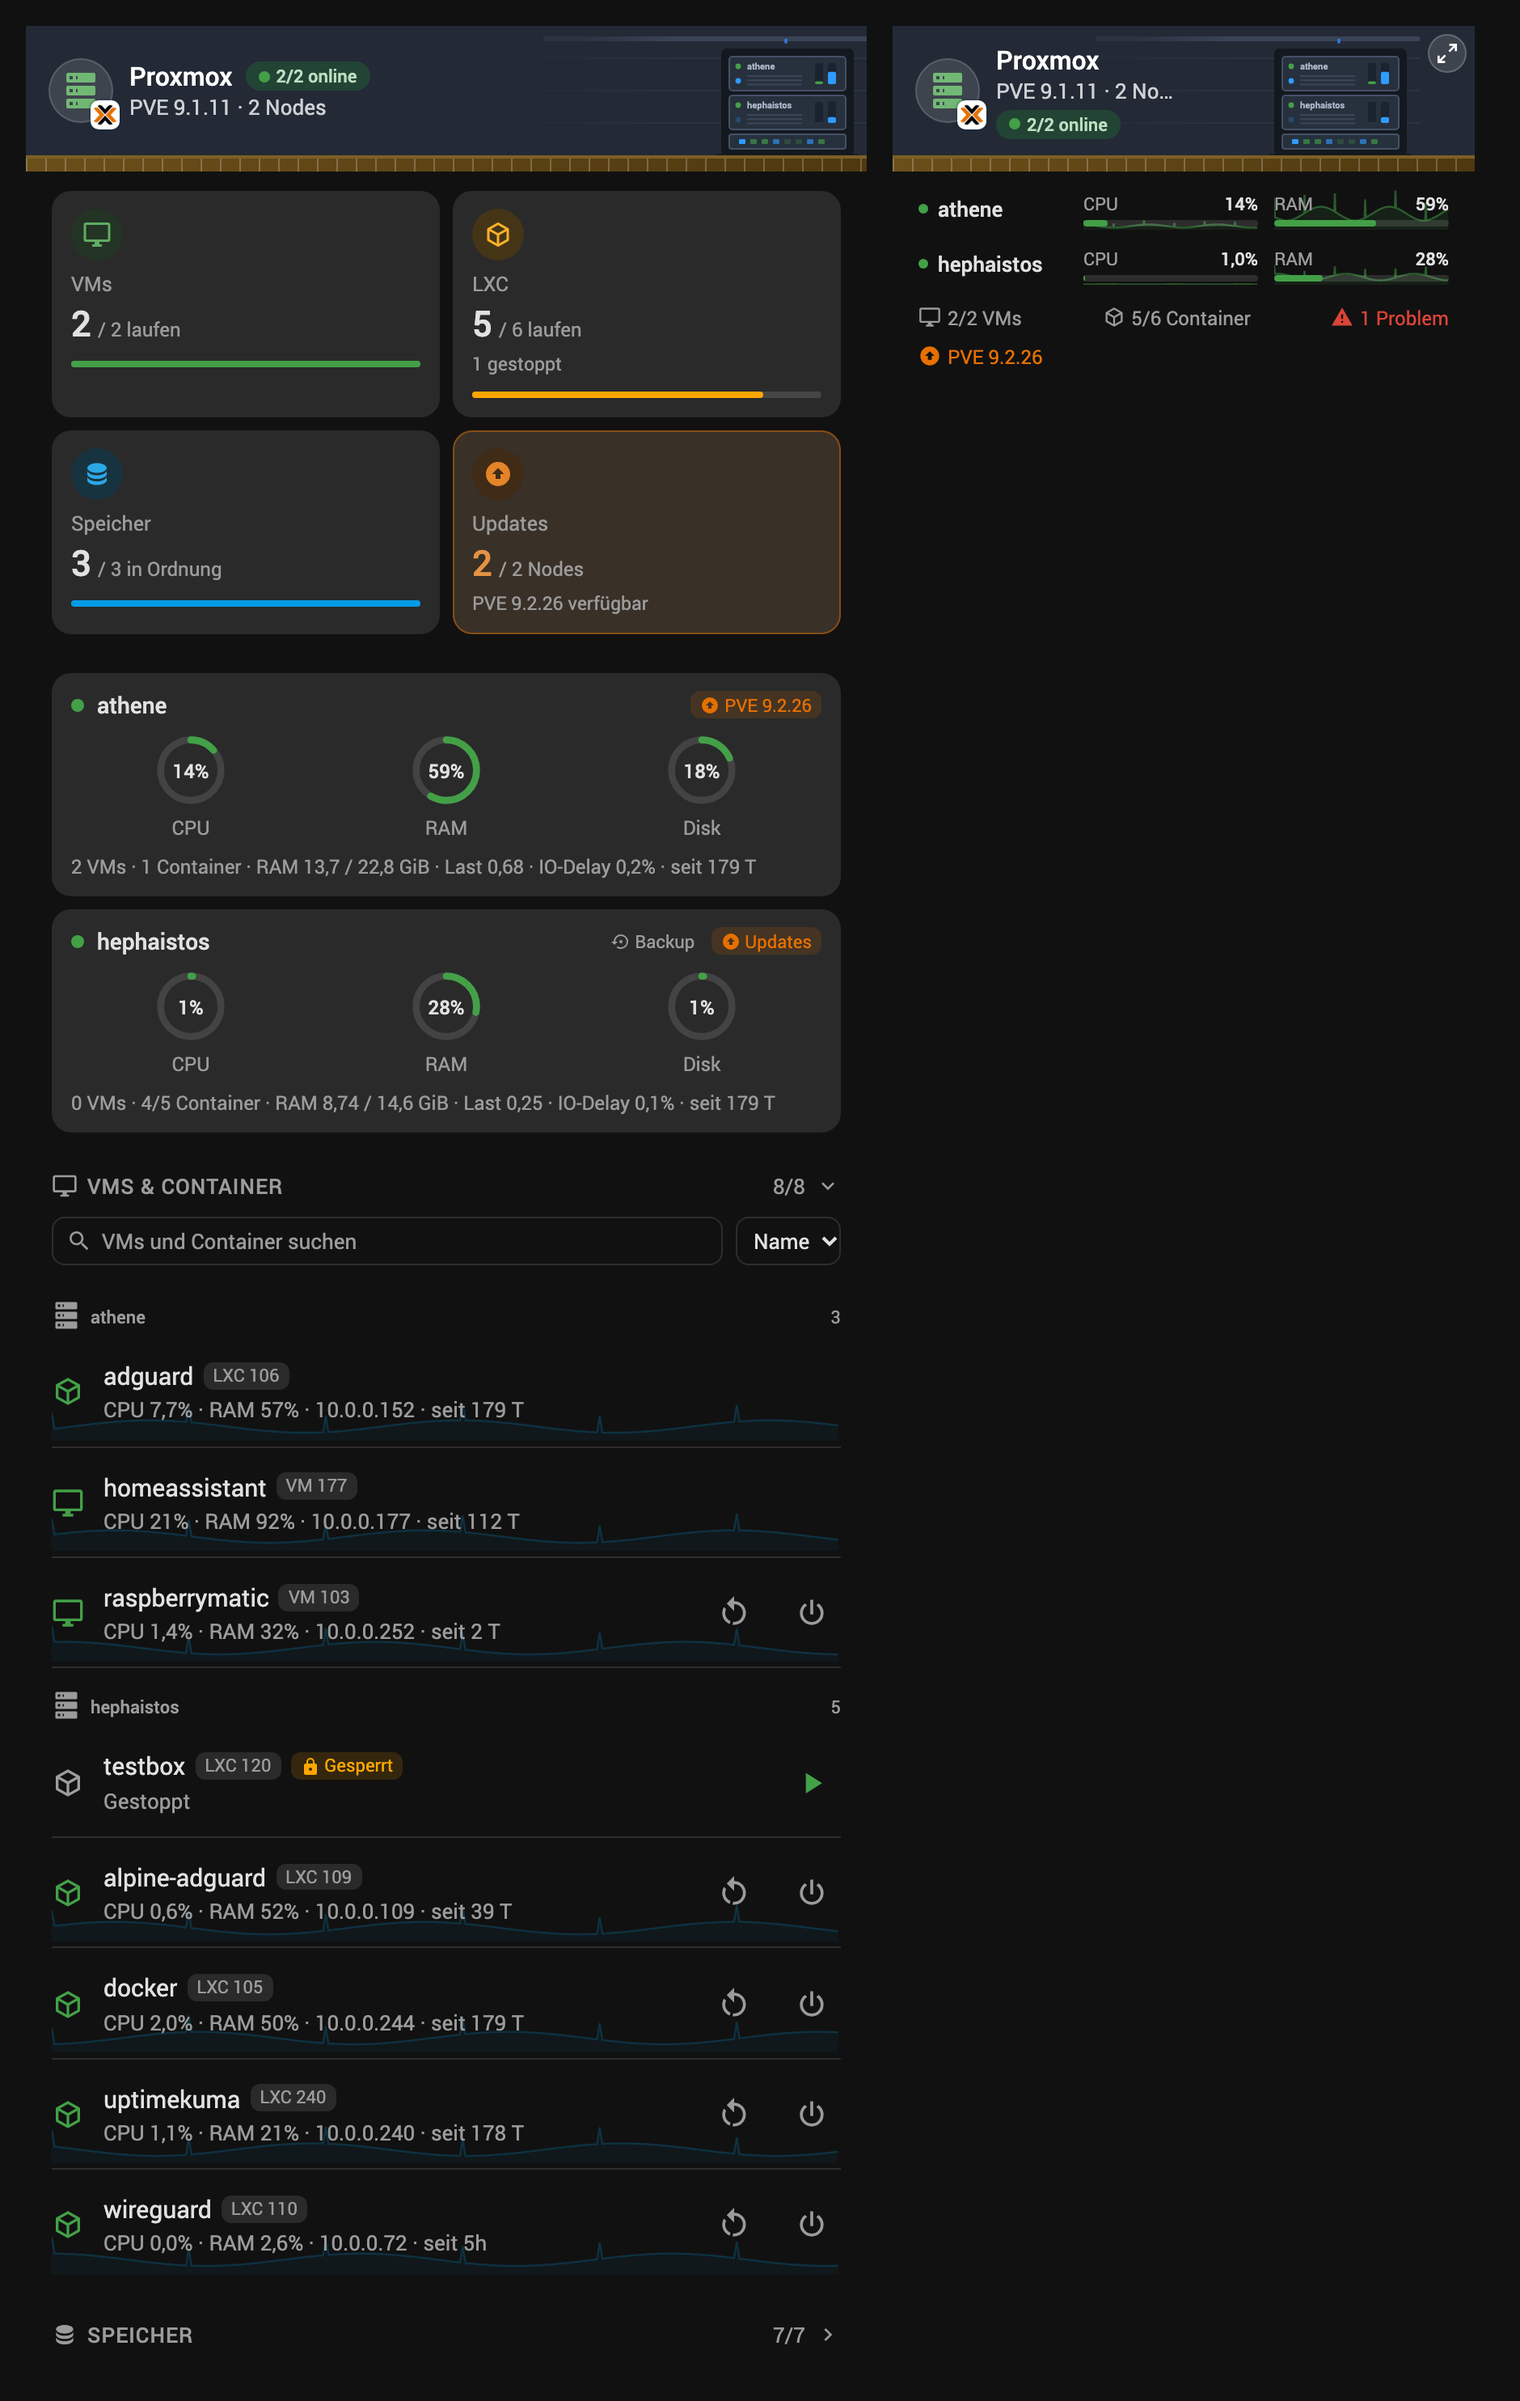
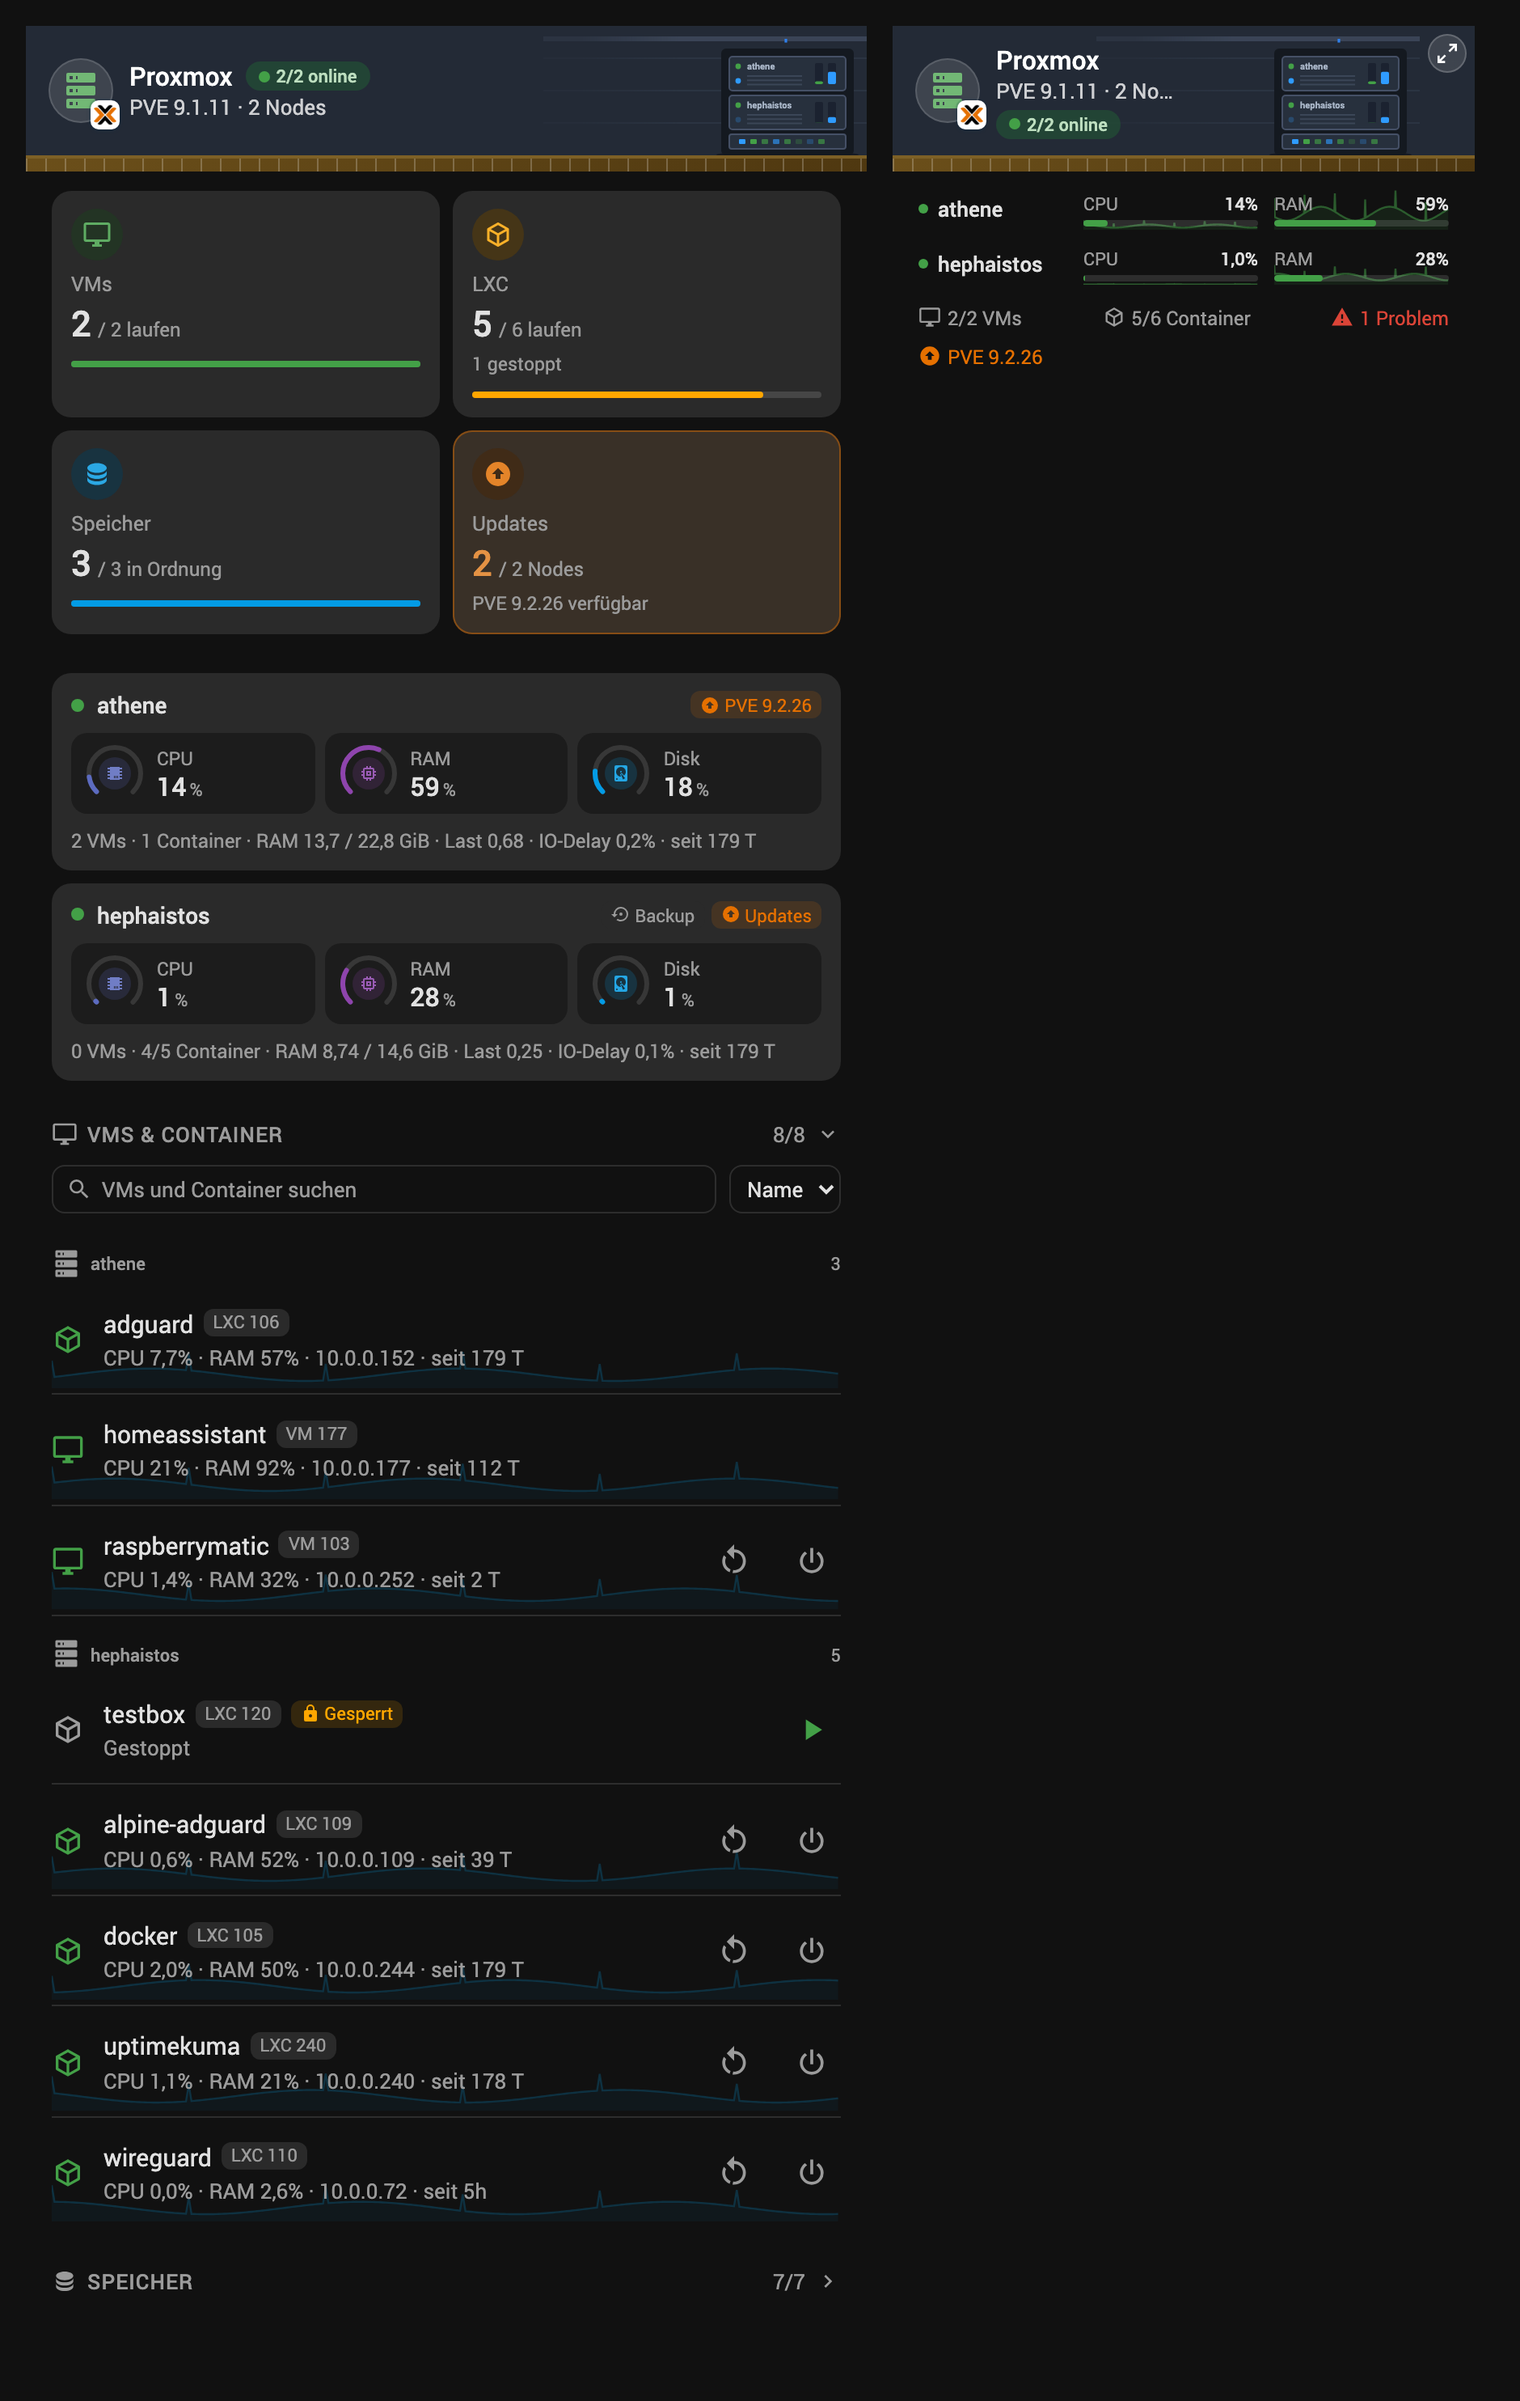
0.4.0: arc tiles instead of rings in the node panels
CPU, RAM and disk of each node are compact arc tiles as in the gauge tile of ha-cards-kit: a small open arc with
the icon in a tinted circle, the name and the value beside it. Colour per metric, orange/red from the thresholds;
stacked on cards under 340 px. Screenshots regenerated.

diff --git a/src/proxmox-card.js b/src/proxmox-card.js
@@ -784,14 +784,23 @@ function spark(points, end, max) {
   return `<svg class="spark" viewBox="0 0 100 30" preserveAspectRatio="none" aria-hidden="true"><path class="spark-a" d="${area}"/><path class="spark-l" d="${line}"/></svg>`;
 }
 
-const ring = (pct) => {
-  const r = 26;
-  const c = 2 * Math.PI * r;
+/**
+ * Open arc gauge (270°, gap at the bottom) as in the gauge tile of ha-cards-kit: grey track, the share in the tile
+ * colour. Drawn as stroke dashes on a circle turned so the arc starts bottom left.
+ */
+const arc = (pct, size = 36, width = 3) => {
+  const c = size / 2;
+  const r = (size - width) / 2 - 0.5;
+  const C = 2 * Math.PI * r;
+  const L = 0.75 * C;
   const p = pct === null ? 0 : Math.max(0, Math.min(100, pct));
-  return `<svg class="ring" viewBox="0 0 64 64">
-    <circle cx="32" cy="32" r="${r}" class="track"/>
-    <circle cx="32" cy="32" r="${r}" class="value" stroke-dasharray="${((p / 100) * c).toFixed(1)} ${c.toFixed(1)}"/>
-  </svg>`;
+  const rot = `rotate(135 ${c} ${c})`;
+  return `<svg class="arcsvg" width="${size}" height="${size}" viewBox="0 0 ${size} ${size}" aria-hidden="true">
+    <circle class="track" cx="${c}" cy="${c}" r="${r}" stroke-width="${width}" stroke-dasharray="${L.toFixed(2)} ${C.toFixed(2)}" transform="${rot}"/>${
+      p > 0
+        ? `<circle class="value" cx="${c}" cy="${c}" r="${r}" stroke-width="${width}" stroke-dasharray="${((L * p) / 100).toFixed(2)} ${C.toFixed(2)}" transform="${rot}"/>`
+        : ""
+    }</svg>`;
 };
 
 // ---------------------------------------------------------------------------
@@ -1386,7 +1395,8 @@ const FULL_STYLE = `
   .section-title .chevron { transition: transform .2s ease; }
   .section-title.closed { margin-bottom: 0; }
   .section-title.closed .chevron { transform: rotate(-90deg); }
-  /* A node: its name line, then its CPU, RAM and disk rings. */
+  /* A node: its name line, then CPU, RAM and disk as compact arc tiles (small arc with the icon left, name and value
+     beside it), as the compact gauge tile of ha-cards-kit. Colour per metric, orange/red from the thresholds. */
   .nodes { display: flex; flex-direction: column; gap: 8px; }
   .node { border-radius: 12px; padding: 10px 12px; background: var(--secondary-background-color, rgba(127,127,127,.06)); min-width: 0;
           display: flex; flex-direction: column; gap: 8px; }
@@ -1395,25 +1405,30 @@ const FULL_STYLE = `
   .node-head .nname { flex: 1 1 auto; font-size: 14px; font-weight: 500; white-space: nowrap; overflow: hidden; text-overflow: ellipsis; }
   .node-head .tags { display: flex; gap: 4px; margin-left: auto; min-width: 0; flex-wrap: nowrap; overflow: hidden; }
   .node .detail { font-size: 12px; color: var(--secondary-text-color); line-height: 1.4; }
-  .gauges { display: grid; grid-template-columns: repeat(3, minmax(0, 1fr)); gap: 10px; }
-  .gauge { display: flex; flex-direction: column; align-items: center; min-width: 0; position: relative; border-radius: 10px; overflow: hidden; }
-  .gauge > :not(.spark) { position: relative; }
-  .gauge .spark { position: absolute; inset: 0; width: 100%; height: 100%; pointer-events: none; }
-  .gauge .gw { position: relative; width: min(46px, 100%); aspect-ratio: 1; }
-  .node .gauge { gap: 4px; }
-  .node .gauge .lbl { font-size: 12px; }
-  .ring { display: block; width: 100%; height: 100%; transform: rotate(-90deg); }
-  .ring circle { fill: none; stroke-width: 6; }
-  .ring .track { stroke: var(--divider-color, rgba(127,127,127,.25)); }
-  .ring .value { stroke: var(--c, var(--px-accent)); stroke-linecap: round; transition: stroke-dasharray .6s ease; }
-  .gauge .val { position: absolute; inset: 0; display: flex; flex-direction: column; align-items: center; justify-content: center; }
-  .gauge .val b { font-size: 12px; font-weight: 500; }
-  .gauge .val .icon { display: none; }
-  .gauge .lbl { font-size: 12px; color: var(--secondary-text-color); text-align: center; line-height: 1.35; max-width: 100%; overflow-wrap: break-word; }
-  .gauge .lbl small { display: block; font-size: 11px; opacity: .85; white-space: nowrap; overflow: hidden; text-overflow: ellipsis; }
-  @container (max-width: 299px) {
-    .gauge .val .icon { display: none; }
-    .gauge .val b { font-size: 11px; }
+  .arcs { display: grid; grid-template-columns: repeat(3, minmax(0, 1fr)); gap: 6px; }
+  .arct { --mc: var(--px-accent); --c: var(--mc); display: flex; align-items: center; gap: 8px; min-width: 0; padding: 7px 9px; border-radius: 10px;
+          background: var(--ha-card-background, var(--card-background-color, #fff)); }
+  .arct.cpu { --mc: var(--indigo-color, #5c6bc0); } .arct.ram { --mc: var(--purple-color, #8e44ad); } .arct.disk { --mc: var(--blue-color, #039be5); }
+  .arct.ok, .arct.idle { --c: var(--mc); } .arct.warn { --c: var(--px-warn); } .arct.crit { --c: var(--px-crit); }
+  .arct.warn, .arct.crit { box-shadow: inset 0 0 0 1px color-mix(in srgb, var(--c) 45%, transparent);
+                           background: color-mix(in srgb, var(--c) 8%, var(--ha-card-background, var(--card-background-color, #fff))); }
+  .arct.clickable:hover { filter: brightness(1.04); }
+  .arct .arc { position: relative; flex: none; width: 36px; height: 36px; display: grid; place-items: center; }
+  .arct .arcsvg { position: absolute; inset: 0; }
+  .arcsvg circle { fill: none; stroke-linecap: round; }
+  .arcsvg .track { stroke: color-mix(in srgb, var(--secondary-text-color) 22%, transparent); }
+  .arcsvg .value { stroke: var(--c); transition: stroke-dasharray .6s ease; }
+  .arct .gi { width: 20px; height: 20px; border-radius: 50%; display: grid; place-items: center;
+              color: color-mix(in srgb, var(--c) 85%, var(--primary-text-color)); background: color-mix(in srgb, var(--c) 18%, var(--ha-card-background, var(--card-background-color, #fff))); }
+  .arct .gi .icon { width: 12px; height: 12px; }
+  .arct .t { display: flex; flex-direction: column; min-width: 0; }
+  .arct .gk { font-size: 11.5px; color: var(--secondary-text-color); white-space: nowrap; overflow: hidden; text-overflow: ellipsis; }
+  .arct .gv { font-size: 16px; font-weight: 500; line-height: 1.2; white-space: nowrap; font-variant-numeric: tabular-nums; }
+  .arct .gv small { font-size: 11px; font-weight: 400; color: var(--secondary-text-color); margin-left: 2px; }
+  .arct.warn .gv, .arct.crit .gv { color: color-mix(in srgb, var(--c) 70%, var(--primary-text-color)); }
+  .arct.idle .arc, .arct.idle .gv { opacity: .6; }
+  @container (max-width: 339px) {
+    .arcs { grid-template-columns: minmax(0, 1fr); }
   }
   .counts { display: grid; grid-template-columns: repeat(auto-fit, minmax(68px, 1fr)); gap: 10px; }
   .count-tile { display: flex; flex-direction: column; align-items: center; padding: 10px 6px; border-radius: 10px;
@@ -1541,12 +1556,14 @@ class ProxmoxCard extends ProxmoxBase {
     return ids;
   }
 
-  _gauge(id, label, icon, pct, cls, hist, withSpark = true) {
+  /** One metric of a node as a compact arc tile: small arc with the icon, name and value beside it. */
+  _arcTile(id, label, icon, pct, cls, metric, hist) {
     const range = rangeText(hist, this._loc());
-    const display = pct === null ? "—" : `${Math.round(pct)}%`;
-    return `<div class="gauge clickable ${cls}" role="button" tabindex="0" data-entity="${esc(id || "")}"${range ? ` title="${esc(label.replace(/<[^>]+>/g, " ") + range)}"` : ""}>${withSpark ? spark(hist, this._histEnd, 100) : ""}
-      <div class="gw">${ring(pct)}<div class="val">${svgIcon(icon)}<b>${display}</b></div></div>
-      <div class="lbl">${label}</div>
+    const value = pct === null ? "—" : `${fmtNum(Math.round(pct), this._loc(), 0)}<small>%</small>`;
+    const state = pct === null ? "idle" : cls;
+    return `<div class="arct clickable ${metric} ${state}" role="button" tabindex="0" data-entity="${esc(id || "")}"${range ? ` title="${esc(label + range)}"` : ""}>
+      <span class="arc">${arc(pct)}<span class="gi">${svgIcon(icon)}</span></span>
+      <span class="t"><span class="gk">${esc(label)}</span><span class="gv">${value}</span></span>
     </div>`;
   }
 
@@ -1585,7 +1602,7 @@ class ProxmoxCard extends ProxmoxBase {
           ? `<span class="tag upd clickable" role="button" tabindex="0" data-entity="${esc(upd.id)}" title="${esc(this._updTitle(upd))}" aria-label="${esc(this._updTitle(upd))}">${svgIcon(ICONS.update)}${esc(upd.pve ? `PVE ${upd.pve}` : this._t("updates"))}</span>`
           : "",
       ].join("");
-      // As in the KPI mockup: plain rings with their name under them; cores and memory go into the detail line.
+      // Cores and memory used go into the detail line under the arc tiles.
       if (u.cores) detail.splice(2, 0, `${fmtNum(u.cores, loc, 0)} ${this._tn("cores", u.cores)}`);
       if (u.used !== null && u.total) detail.splice(u.cores ? 3 : 2, 0, `${this._t("memory")} ${fmtBytesPair(u.used, u.total, loc)}`);
       return `<div class="node" data-key="${esc(n.id)}">
@@ -1594,10 +1611,10 @@ class ProxmoxCard extends ProxmoxBase {
           <span class="nname clickable" role="button" tabindex="0" data-entity="${esc(st.id || "")}" title="${esc(this._stateLabel(st.state))}">${esc(n.name)}</span>
           <span class="tags">${tags}</span>
         </div>
-        <div class="gauges">
-          ${this._gauge(u.cpuId, this._t("cpu"), ICONS.cpu, u.cpu, this._level("cpu", u.cpu), hist?.[u.cpuId], false)}
-          ${this._gauge(u.memId, this._t("memory"), ICONS.ram, u.mem, this._level("ram", u.mem), hist?.[e.memory_used_perc], false)}
-          ${this._gauge(u.diskId, this._t("disk"), ICONS.disk, u.disk, this._level("disk", u.disk), null, false)}
+        <div class="arcs">
+          ${this._arcTile(u.cpuId, this._t("cpu"), ICONS.cpu, u.cpu, this._level("cpu", u.cpu), "cpu", hist?.[u.cpuId])}
+          ${this._arcTile(u.memId, this._t("memory"), ICONS.ram, u.mem, this._level("ram", u.mem), "ram", hist?.[e.memory_used_perc])}
+          ${this._arcTile(u.diskId, this._t("disk"), ICONS.disk, u.disk, this._level("disk", u.disk), "disk", null)}
         </div>
         <div class="detail">${esc(detail.join(" · "))}</div>
       </div>`;

diff --git a/README.md b/README.md
@@ -24,7 +24,7 @@ Its design and structure come from [ha-docker-card](https://github.com/juju35/ha
 - Two cards: a full **Proxmox Card** and a compact **Proxmox Mini Card**
 - Header with the Proxmox VE version and how many nodes are online
 - KPI tiles at the top: VMs and LXC containers running (with how many are stopped), storages fine, nodes with updates (with the new Proxmox VE version); a tile without data is left out and the rows close up
-- One compact panel per node: CPU, RAM and root disk rings (their last 24 hours in the tooltip), then running VMs and containers, cores, memory used / total, load, IO delay, uptime in one line
+- One compact panel per node: CPU, RAM and root disk as small arc tiles (arc with the icon, name and value; orange / red from the thresholds; their last 24 hours in the tooltip), then running VMs and containers, cores, memory used / total, load, IO delay, uptime in one line
 - Node badges: updates pending, with the new Proxmox VE version when there is one (opens the node's update entity), backup running, failed tasks
 - VMs and LXC containers list, grouped by node: state, CPU, RAM, IP address, uptime, locked and health flags, search and sort (name, ID, CPU, RAM), each guest's CPU over 24 h behind its row
 - Start, shutdown and reboot buttons, with an in-card confirmation; an optional hard stop button

diff --git a/CHANGELOG.md b/CHANGELOG.md
@@ -1,5 +1,14 @@
 # Changelog
 
+## 0.4.0 (2026-11-22)
+
+- **Arc tiles instead of rings** in the node panels, as the compact gauge tile of
+  [Cards Kit](https://github.com/hoentaex/ha-cards-kit): a small open arc (270°, open at the bottom) with the icon in a
+  tinted circle, the name and the value beside it, one tile per metric.
+- Colour per metric (CPU indigo, RAM purple, disk blue); from the thresholds the arc, value, border and tile turn
+  orange or red. On narrow cards (under 340 px) the three tiles stack. A click still opens the sensor, the tooltip
+  still shows the last 24 hours.
+
 ## 0.3.0 (2026-11-20)
 
 - **KPI tiles** (as in the energy, oil, heating and Tibber cards) right under the header: VMs and LXC containers
